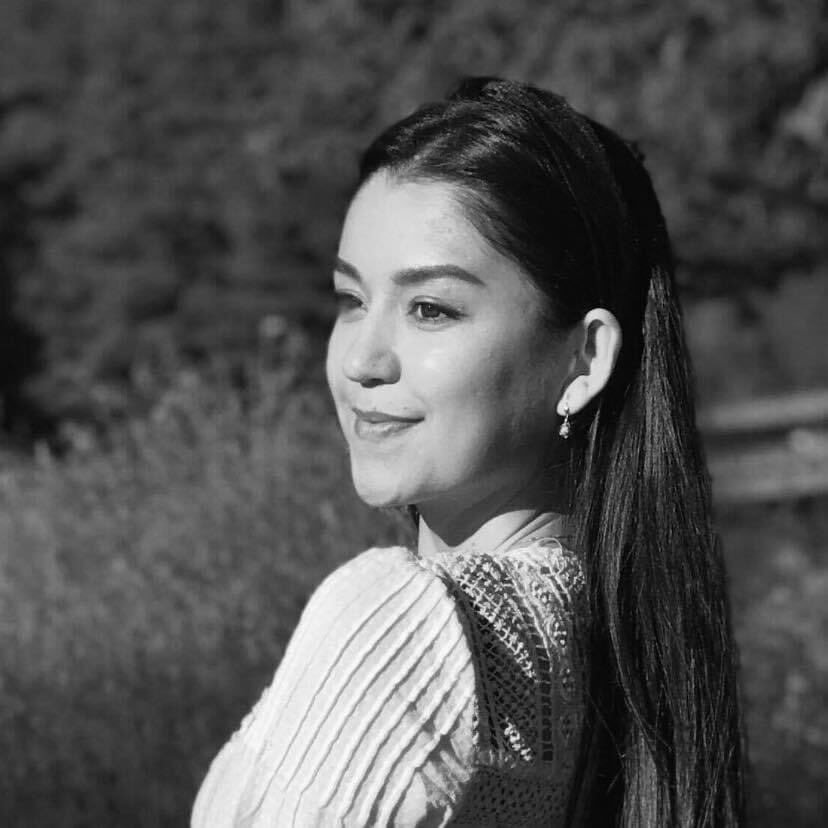
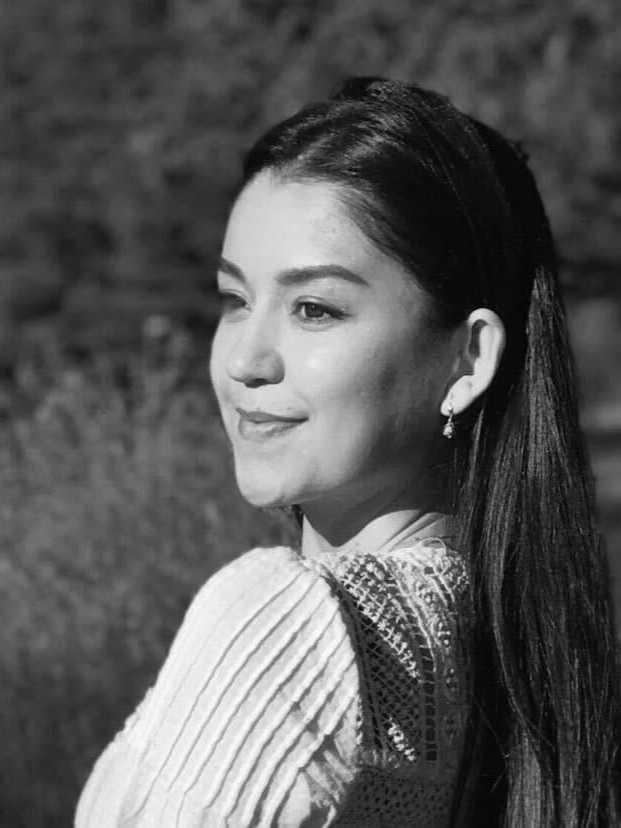
Korrekta bilder på varje person

diff --git a/team.html b/team.html
@@ -21,18 +21,20 @@
         </nav>
     </header>
 
-    <section>
+    <section class="team">
         <h1>Meet the team</h1>
 
         <!--Person 1 Latifa-->
         <article>
 
-            <div><img src="img/latifa.jpg" alt="Det här är Latifa"></div>
-            <div><h2> Latifa Rohani </h2>
-            <p>Lorem ipsum dolor sit amet consectetur adipisicing elit.
-                Est, natus sunt. Perspiciatis animi dolorum aperiam
-                laboriosam excepturi fugit quis illo?</p>
-            <a href="latifa.html">Läs mer om Latifa</a></div>
+            <div class="img-container"><img src="img/latifa.jpg" alt="Det här är Latifa" class="team-img"></div>
+            <div>
+                <h2> Latifa Rohani </h2>
+                <p>Lorem ipsum dolor sit amet consectetur adipisicing elit.
+                    Est, natus sunt. Perspiciatis animi dolorum aperiam
+                    laboriosam excepturi fugit quis illo?</p>
+                <a href="latifa.html">Läs mer om Latifa</a>
+            </div>
 
         </article>
 
@@ -40,12 +42,14 @@
         <!--Person 2 Nancy-->
         <article>
 
-            <div><img src="img/nancy.jpg" alt="Det här är Nancy"></div>
-            <div><h2> Nancy Samefors </h2>
-            <p>Lorem ipsum dolor sit amet consectetur adipisicing elit.
-                Est, natus sunt. Perspiciatis animi dolorum aperiam
-                laboriosam excepturi fugit quis illo?</p>
-            <a href="nancy.html">Läs mer om Nancy</a></div>
+            <div class="img-container"><img src="img/nancy.jpg" alt="Det här är Nancy" class="team-img"></div>
+            <div>
+                <h2> Nancy Samefors </h2>
+                <p>Lorem ipsum dolor sit amet consectetur adipisicing elit.
+                    Est, natus sunt. Perspiciatis animi dolorum aperiam
+                    laboriosam excepturi fugit quis illo?</p>
+                <a href="nancy.html">Läs mer om Nancy</a>
+            </div>
 
         </article>
 
@@ -53,12 +57,16 @@
         <!--Person 3 Veronica-->
         <article>
 
-             <div><img src="img/veronica.jpg" alt="Det här är Veronica"></div>
-            <div><h2> Veronica Byström </h2>
-            <p>Lorem ipsum dolor sit amet consectetur adipisicing elit.
-                Est, natus sunt. Perspiciatis animi dolorum aperiam
-                laboriosam excepturi fugit quis illo?</p>
-            <a href="veronica.html">Läs mer om Veronica</a></div>
+            <div class="img-container">
+                <img src="img/veronica.jpg" alt="Det här är Veronica" class="team-img">
+            </div>
+            <div>
+                <h2> Veronica Byström </h2>
+                <p>Lorem ipsum dolor sit amet consectetur adipisicing elit.
+                    Est, natus sunt. Perspiciatis animi dolorum aperiam
+                    laboriosam excepturi fugit quis illo?</p>
+                <a href="veronica.html">Läs mer om Veronica</a>
+            </div>
 
         </article>
 
@@ -66,12 +74,14 @@
         <!--Person 4 Yacob-->
         <article>
 
-             <div><img src="img/yacob.jpg" alt="Det här är Yacob"></div>
-            <div><h2> Yacob Hanna</h2>
-            <p>Lorem ipsum dolor sit amet consectetur adipisicing elit.
-                Est, natus sunt. Perspiciatis animi dolorum aperiam
-                laboriosam excepturi fugit quis illo?</p>
-            <a href="yacob.html">Läs mer om Yacob</a></div>
+            <div class="img-container"><img src="img/yacob.jpg" alt="Det här är Yacob" class="team-img"></div>
+            <div>
+                <h2> Yacob Hanna</h2>
+                <p>Lorem ipsum dolor sit amet consectetur adipisicing elit.
+                    Est, natus sunt. Perspiciatis animi dolorum aperiam
+                    laboriosam excepturi fugit quis illo?</p>
+                <a href="yacob.html">Läs mer om Yacob</a>
+            </div>
 
         </article>
 
